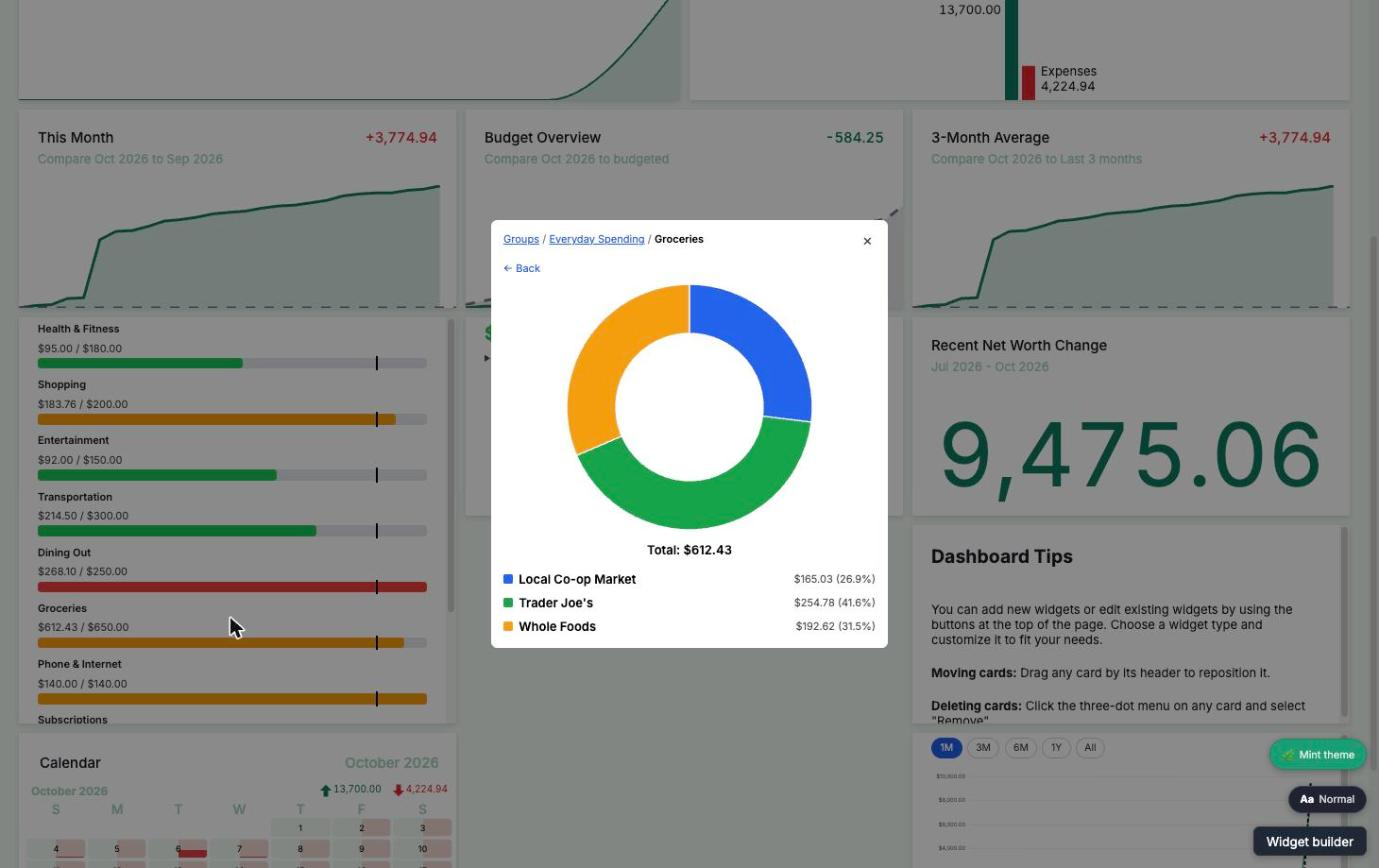
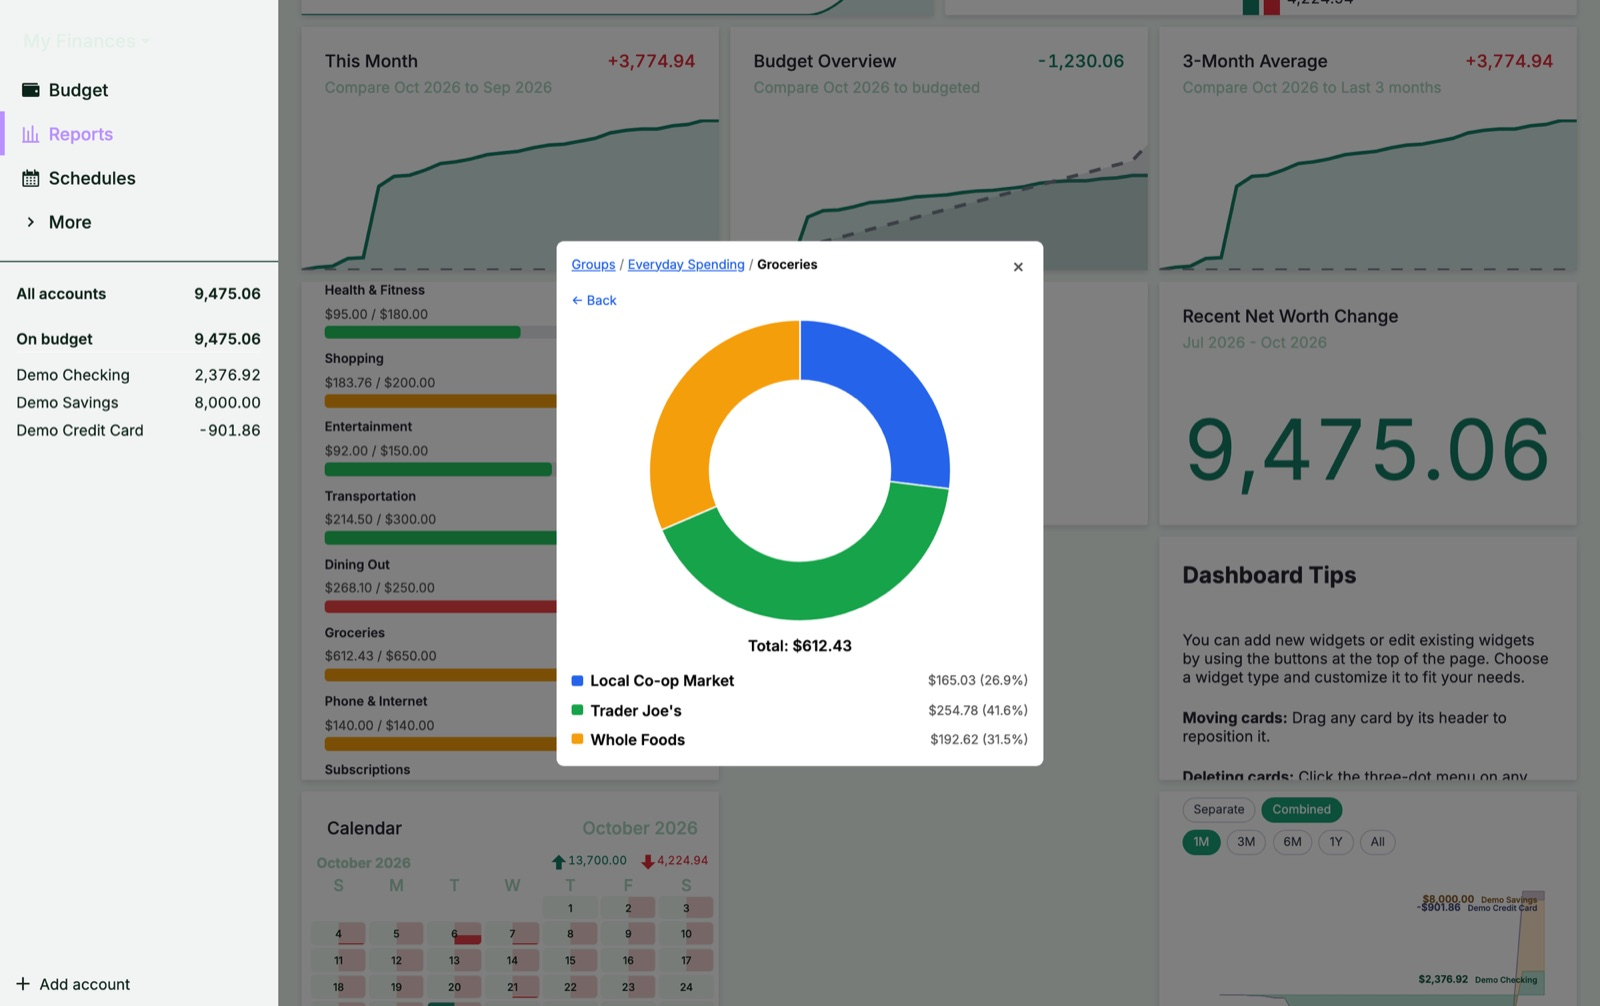
docs: retake outdated screenshots without the old floating buttons
The text-size, reports, and pacing drill-down shots still showed the
floating "Mint theme"/"Aa"/"Widget builder" buttons, which have since moved
into the ActualMint settings card and the Reports toolbar; the settings shot
predated savings goals. Retaken in Actual's demo budget.

diff --git a/README.md b/README.md
@@ -245,11 +245,11 @@ Actual's Settings page:
 
 | Pacing bars and drill-down | Reports widgets |
 | --- | --- |
-| ![A budget-pacing-bars widget next to its category drill-down donut and an account-balances chart, in the Mint-style theme](docs/screenshots/pacing-bars-drilldown.jpg) | ![Reports page with pacing bars, projected net, and an account balance chart](docs/screenshots/reports-widgets.jpg) |
+| ![A budget-pacing-bars widget with a category's drill-down donut open, in the Mint-style theme](docs/screenshots/pacing-bars-drilldown.jpg) | ![Reports page with pacing bars, projected month-end net, and an account-balances chart alongside Actual's own cards](docs/screenshots/reports-widgets.jpg) |
 
 | Widget builder | Settings |
 | --- | --- |
-| ![Widget builder button next to Actual's own "Add new widget" button, panel open](docs/screenshots/widget-builder.jpg) | ![The ActualMint settings card injected below Actual's own Themes card](docs/screenshots/settings-card.jpg) |
+| ![Widget builder button next to Actual's own "Add new widget" button, panel open with a generated placeholder](docs/screenshots/widget-builder.jpg) | ![The ActualMint settings card below Actual's own Themes card: text size, Mint-style theme, and savings goals](docs/screenshots/settings-card.jpg) |
 
 | Text size control |
 | --- |
